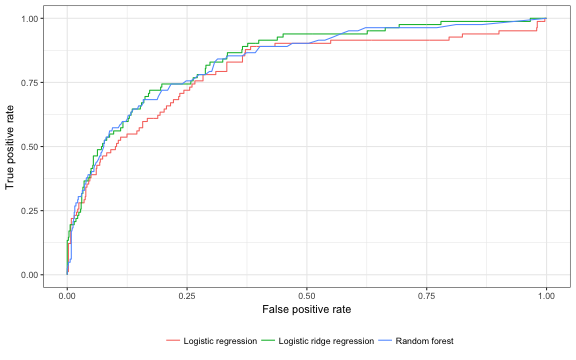
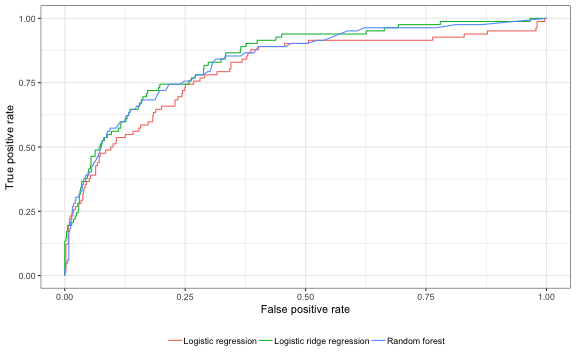
More updates to blog posts

diff --git a/_posts/2015-10-13-diabetes-highcost.md b/_posts/2015-10-13-diabetes-highcost.md
@@ -32,41 +32,13 @@ Mean expenditures are high, although the expenditure distribution is quite skewe
 
 ```r
 library("ineq")
-```
-
-```
-## Error in library("ineq"): there is no package called 'ineq'
-```
-
-```r
 library("ggplot2")
 theme_set(theme_bw())
 lorenz <- Lc(meps$totexp)
-```
-
-```
-## Error in Lc(meps$totexp): could not find function "Lc"
-```
-
-```r
 lorenz <- data.table(p = lorenz$p, L = lorenz$L)
-```
-
-```
-## Error in data.table(p = lorenz$p, L = lorenz$L): object 'lorenz' not found
-```
-
-```r
 frac <- c(seq(.3, .9, .1), .95)
 quants <-  data.table(quant = quantile(lorenz$L, probs = frac),
                       frac)
-```
-
-```
-## Error in quantile(lorenz$L, probs = frac): object 'lorenz' not found
-```
-
-```r
 ggplot(lorenz, aes(x = p, y = L)) + geom_line() + 
   geom_abline() + coord_cartesian(xlim = c(0, 1), ylim = c(0, 1)) +
   xlab("Fraction of individuals ordered by expenditures") + 
@@ -79,27 +51,163 @@ ggplot(lorenz, aes(x = p, y = L)) + geom_line() +
             show.legend  = F)
 ```
 
+<img src="/figs/lorenz_curve-1.png" title="plot of chunk lorenz_curve" alt="plot of chunk lorenz_curve" style="display: block; margin: auto;" />
+There are considerable differences in spending among those with diabetes, as the top 10 percent of spenders account for 49.24 percent of all spending. We can summarize the degree of inequality in spending using the [Gini coefficient](https://en.wikipedia.org/wiki/Gini_coefficient); in R, we use the command `Gini(meps$totexp)`, which yields a value of 0.63. The distribution of health spending (among patients with diabetes) is therefore more unequal than the distribution of income (pre taxes and transfers) in the most [unequal](https://en.wikipedia.org/wiki/List_of_countries_by_income_equality) countries in the world.
+
+Since spending is highly concentrated disease management programs could potentially reduce costs significantly if they could identify future high spenders.
+
+### Modeling 
+For the purpose of this analysis, we will classify high cost patients as those in the upper 10th percentile of the spending distribution. The primary predictor variables (or features) are spending in the previous year and an indicator variable for being a high spender in the previous year. Other variables include age, self-reported health status, how diabetes is being treated (with diet, medication, and/or insulin), whether diabetes has caused kidney or eye problems, and [single-level clinical classification system (CCS) categories](https://www.hcup-us.ahrq.gov/toolssoftware/ccs/CCSUsersGuide.pdf) (i.e. comorbidities). 
+
+```r
+ccsnames <- names(meps)[grep("^ccs\\d\\d\\d", names(meps))]
+ds <- c("dsdiet", "dsmed", "dsinsu", "dseypr", "dskidn")
+xvars <- c("l_topexp", "l_totexp", "age", "srh", ds, ccsnames)
+meps <- meps[, c("dupersid", "panel", "year", "topexp", "totexp",
+                 xvars), with = FALSE]
 ```
-## Error in ggplot(lorenz, aes(x = p, y = L)): object 'lorenz' not found
+Data from the 10th - 15th panels is used as training data and data from the 16th and 17th panels is used as test data. 
+
+```r
+train <- meps[panel <= 15]
+train <- train[complete.cases(train)]
+test <- meps[panel > 15]
+test <- test[complete.cases(test)]
 ```
 
+#### Logistic Regression
+Logistic regression is commonly used to predict binary outcomes. We estimate a logistic regression using the training data and then calculate the predicted probability of being a high spender on the test data.
+
+```r
+Fm <- function(y, x){
+  return(as.formula(paste(y, "~", paste(xvars, collapse = "+"))))
+}
+logistic <- glm(Fm("topexp", xvars), family = binomial, train)
+p.logistic <- predict.glm(logistic, test, type = "response")
+```
+
+#### Logistic Ridge Regression
+It is worth noting that the logistic regression above includes all CCS categories as predictor variables. This is problematic because 1) some CCS categories are very uncommon and 2) the CCS categories are highly collinear. As a result, the variances of the regression coefficients are large.
+
+Ridge regression---which penalizes large coefficient estimates---is often used to deal with these issues. Below I use the [glmnet](https://web.stanford.edu/~hastie/glmnet/glmnet_alpha.html) package to estimate a logistic ridge regression. The degree to which the regression coefficients are shrunk toward zero is determined by the parameter $$\lambda$$. Predictions are made using a value of $$\lambda$$ that minimizes the model deviance in 10-fold cross-validation.
+
+```r
+library("glmnet")
+x.train <- model.matrix(Fm("topexp", xvars), train)[, -1]
+y.train <- train$topexp
+x.test <- model.matrix(Fm("topexp", xvars), test)[, -1]
+y.test <- test$topexp
+cv.ridge <- cv.glmnet(x.train, y.train, family = "binomial", alpha = 0)
+p.ridge <- predict(cv.ridge, x.test, s = "lambda.min", type = "response")
+```
+
+#### Random Forests
+Classification trees are non-linear predictive models commonly used for classification. Random forests aggregate predictions from multiple trees in order to improve prediction accuracy. In the random forest algorithm, $$m$$ predictor variables are randomly chosen at each node of each tree. Model performance depends on the parameter $$m$$ so it should be treated as a tuning variable. However, in this case, the default value of $$m=\sqrt{p}$$ where $$p$$ is the number of predictor variables turned out to be sensible and is consequently used for predictions. Furthermore, the number of trees had very little effect on classification error rates and was set to 501. 
+
+Here, I implement the random forest algorithm using the `randomForest` package in R.
+
+```r
+library("randomForest")
+set.seed(101)
+train$srh <- as.numeric(train$srh)
+x.train <- model.matrix(Fm("topexp", xvars), train)[, -1]
+y.train <- as.factor(y.train)
+rf <- randomForest(x = x.train, y = y.train, ntree = 501,
+                   importance = TRUE, do.trace= FALSE)
+test$srh <- as.numeric(test$srh)
+p.rf <- predict(rf, test, type = "prob")
+```
+
+### Evaluation
+The Brier score is commonly used to asses the accuracy of binary predictions. It can be calculated as $$1/N\sum_{i=1}^N (p_i-y_i)^2$$, where $$N$$ is the total number of patients, $$p_i$$ is the probability that patient $i$ is a high spender, and $$y_i$$ is an indicator variable equal to 1 for high spenders and 0 otherwise.
+
+```r
+Brier <- function(p, y) mean((p - y)^2)
+c(Brier(p.logistic, y.test), Brier(p.ridge, y.test), 
+  Brier(p.rf[, 2], y.test))
+```
+
+```
+## [1] 0.07274953 0.06464060 0.06606398
+```
+As expected, the logistic ridge regression and the random forest perform considerably better than the logistic regression. 
+
+So far, we have predicted the probability that each patient is a higher spender. In order to classify patients we must choose some cutoff point that differentiates high spenders from low spenders. Letting $$\hat{y}_i$$ be the predicted class of patient $i$, our cutoff should be chosen to balance the sensitivity and specificity of the classifier, where,
+
+$$
+\begin{aligned}
+\rm{sensitivity:}\; &Pr(\hat{y}_i = 1| y_i = 1) \\
+\rm{specificity:}\; &Pr(\hat{y}_i = 0| y_i = 0). 
+\end{aligned}
+$$
+
+In our context, we might be willing to decrease specificity in order to increase sensitivity so that we can target more high risk patients. This tradeoff can be represented with a receiver operating curve (ROC), which plots the true positive rate (sensitivity) on the y-axis and the false positive rate (1 -specificity) on the x-axis.
+
+The `ROCR` package provides a simple way to plot ROC curves using base R. I prefer the graphics in `ggplot`, so the code below uses `ggplot` to plot ROC curves using `ROCR` objects.
 
 
+```r
+library("ROCR")
 
+# predictions
+p.mat <- cbind(p1 = p.logistic, p2 = p.ridge[, 1], p3 = p.rf[, 2])
+labels.mat <- matrix(y.test, nrow = length(y.test), ncol = ncol(p.mat))
+pred <- prediction(p.mat, labels.mat)
 
+# roc curve
+perf <- performance(pred, "tpr", "fpr")
+roc.dat <- data.frame(fpr = do.call("c", perf@x.values), 
+                       tpr = do.call("c", perf@y.values))
+len <- do.call("c", lapply(perf@x.values, length))
+roc.dat$lab <- rep(c("Logistic regression", "Logistic ridge regression", 
+                     "Random forest"), times = len)
+ggplot(roc.dat, aes(x = fpr, y = tpr, col = lab)) + geom_line() +
+  xlab("False positive rate") +
+  ylab("True positive rate") + theme(legend.title=element_blank()) + 
+  theme(legend.position = "bottom")
+```
 
+<img src="/figs/roc-1.png" title="plot of chunk roc" alt="plot of chunk roc" style="display: block; margin: auto;" />
+The area under the ROC curve, or the AUC, can be used to summarize the performance of the models. It has a nice interpretation because it can be shown to be equal to the Wilcoxon rank-sum test, or as the proportion of random pairs consisting of a high cost and a non high-cost patient in which the model assigns a higher probability of being a high cost patient to the actual high cost patient.
 
+```r
+auc <- as.numeric(performance(pred, "auc")@y.values)
+print(auc)
+```
 
+```
+## [1] 0.8003307 0.8446820 0.8351444
+```
+We can see that both the logistic ridge regression and the random forest yield similar results.
 
+Another important quantity of interest for disease management programs is the positive predictive value (PPV), or $$Pr(y_i=1 \mid \hat{y}_i =1)$$. Below, I plot this value using the logistic ridge regression against threshold values defined in terms of the percentage of the population with predictive probabilities above the cutoff.
 
+```r
+ppv.dat <- data.frame(pred = p.ridge[, 1], y = y.test, exp = test$totexp)
+ppv.dat$ecdf.p <- ecdf(ppv.dat$pred)(ppv.dat$pred)
+pctile <- seq(.7, 1, .01)
+tp <- rep(NA, length(pctile))
+for (i in 1:length(tp)){
+  yhat <-  1 * (ppv.dat$ecdf.p > pctile[i])
+  tp[i] <- mean(ppv.dat$y[which(yhat == 1)])
+}
+ggplot(data.frame(x = pctile, y = tp), aes(x = x, y = y)) + geom_line() +
+  xlab("Percentile cutoff") + ylab("Positive predicted value") + 
+  geom_vline(xintercept = 0.9, lty = "dotted", col = "red")
+```
 
+<img src="/figs/ppv-1.png" title="plot of chunk ppv" alt="plot of chunk ppv" style="display: block; margin: auto;" />
+The PPV is increasing in the threshold value which means that there is a tradeoff between correctly identifying high spenders and the number of patients identified. Indeed, if the cutoff is chosen so that only 10 percent of patients are targeted, then the PPV is only 0.43. 
 
+One way to examine the potential success of the disease management program is to compare observed spending by predicted high spenders to observed spending by actual high spenders.
 
+```r
+fsaf <- sum(ppv.dat$exp[ppv.dat$ecdf.p >= .9])/sum(ppv.dat$exp[ppv.dat$y == 1])
+print(fsaf)
+```
 
-
-
-
-
-
-
+```
+## [1] 0.701832
+```
+We can see that the sum of spending by top 10 percent of predicted high spenders is 70 percent of the total amount spent by the observed high spenders. Overall, these results suggests that it is quite difficult to identify the highest spending diabetes patients.
 

diff --git a/_posts/2018-02-10-psa.md b/_posts/2018-02-10-psa.md
@@ -8,7 +8,7 @@ title: Probabilistic Sensitivity Analysis with R
 ### Overview
 Decisions to adopt or reimburse health technologies are often guided by cost-effectiveness analyses. The outcomes needed to conduct cost-effectiveness analyses are simulated using decision-analytic models, which combine information from multiple sources and extrapolate outcomes beyond the time horizons or settings from the available evidence. These models are subject to a number of sources of uncertainty, including parameter uncertainty.
 
-The [standard methodology](http://onlinelibrary.wiley.com/doi/10.1002/hec.985/abstract) for quantifying the impact of parameter uncertainty is probabilistic sensitivity analysis (PSA), which propagates uncertainty in the model input parameters throughout the model by randomly sampling the input parameters from their joint probability distribution. Probability distributions are determined according to the distributional properties of the statistical estimates, which, in turn, depend on the statistical techniques used and the distributions of the underlying data
+The [standard methodology](http://onlinelibrary.wiley.com/doi/10.1002/hec.985/abstract) for quantifying the impact of parameter uncertainty is probabilistic sensitivity analysis (PSA), which propagates uncertainty in the model input parameters throughout the model by randomly sampling the input parameters from suitable probability distributions. Probability distributions are determined according to the distributional properties of the statistical estimates, which, in turn, depend on the statistical techniques used and the distributions of the underlying data
 
 R, which is designed specifically for statistical computing, may be the most natural programming language for performing PSA. Random samples can be drawn from almost any probability distribution using R. Below, we examine different probability distributions, and show how they can be used to sample parameter types that are commonly used in cost-effectiveness modeling.  
 
@@ -177,20 +177,6 @@ We can randomly sample transition probabilities using Dirichlet distributions wi
 
 ```r
 library("hesim")
-```
-
-```
-## 
-## Attaching package: 'hesim'
-```
-
-```
-## The following object is masked from 'package:Matrix':
-## 
-##     expand
-```
-
-```r
 alpha <- 1
 tp.sample <- hesim::rdirichlet_mat(n = 1000, alpha + trans)
 ```

diff --git a/_posts/2015-09-11-twopart.md b/_posts/2015-09-11-twopart.md
@@ -38,14 +38,6 @@ ggplot(meps, aes(x = logtotexp12)) +
                                              "normal")$estimate)
 ```
 
-```
-## `stat_bin()` using `bins = 30`. Pick better value with `binwidth`.
-```
-
-```
-## Warning: Removed 9167 rows containing non-finite values (stat_bin).
-```
-
 <img src="/figs/twopart_loghist-1.png" title="plot of chunk twopart_loghist" alt="plot of chunk twopart_loghist" style="display: block; margin: auto;" />
 The data is approximately normally distributed, albeit skewed slightly to the left. Since the response variable is essentially normal, the error term in a linear regression model---or equivalently the response variable conditional on covariates---is likely approximately normal as well.
 
